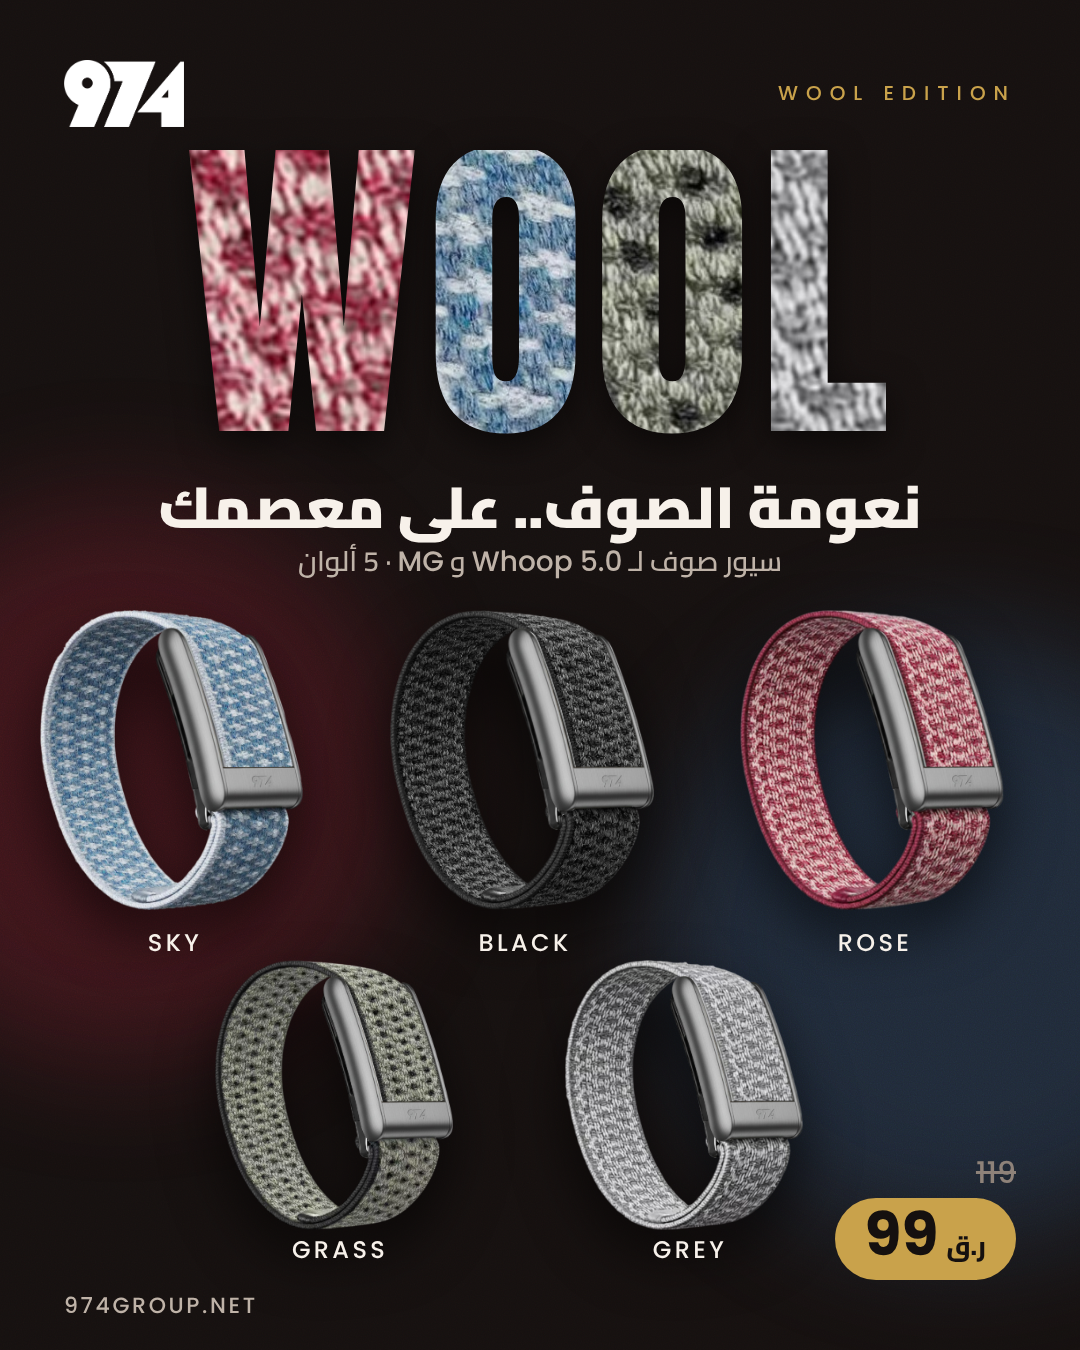
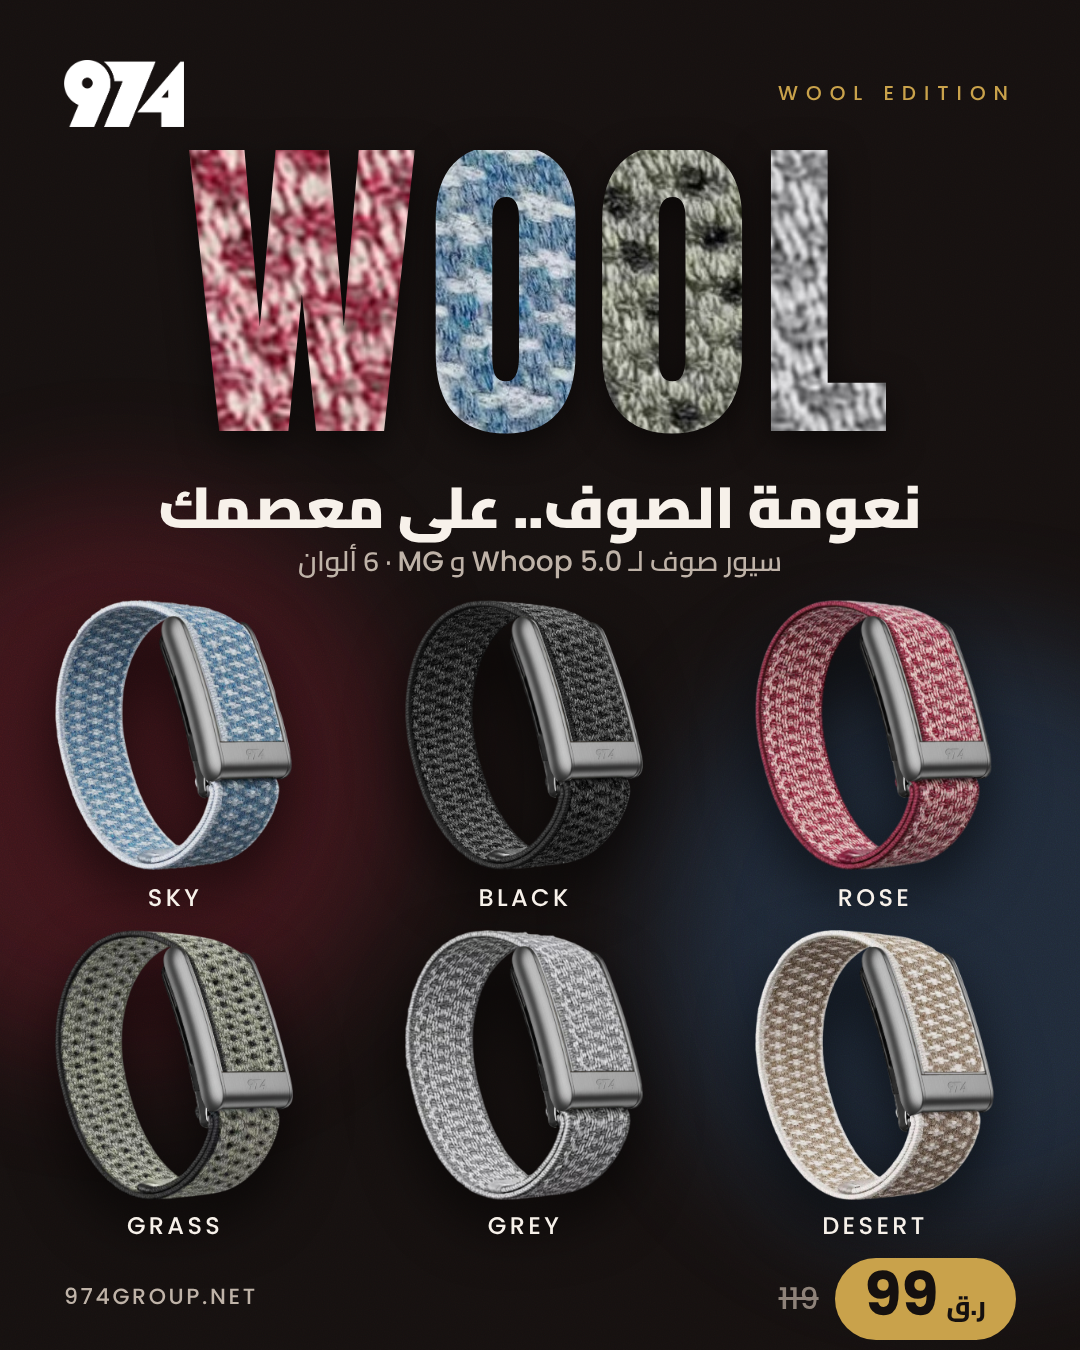
Wool: add Desert (6 colours)
Claude-Session: https://claude.ai/code/session_01K6HDWNrArsGSJekW1VcEzV

Changed region(s): [[0.0306, 0.4356, 0.9472, 0.9956], [0.2139, 0.9333, 0.2444, 0.9644]]

diff --git a/posts/2026-11/wool/src/d.html b/posts/2026-11/wool/src/d.html
@@ -39,19 +39,21 @@ body{background:#777;display:flex;gap:40px;padding:40px;align-items:flex-start;w
   <div class="kick en" style="right:64px;top:78px">WOOL EDITION</div>
   <div class="wool" style="top:150px;font-size:330px"><span style="background-image:url(tex_rose.jpg)">W</span><span style="background-image:url(tex_sky.jpg)">O</span><span style="background-image:url(tex_grass.jpg)">O</span><span style="background-image:url(tex_grey.jpg)">L</span></div>
   <div class="h ar" style="top:452px;font-size:58px">نعومة الصوف.. على معصمك</div>
-  <div class="s ar" style="top:535px;font-size:28px">سيور صوف لـ <span class="en">Whoop 5.0</span> و <span class="en">MG</span> · 5 ألوان</div>
-  <img class="band" src="sky_c.png"   style="left:40px;top:610px;height:300px">
-  <img class="band" src="black_c.png" style="left:390px;top:610px;height:300px">
-  <img class="band" src="rose_c.png"  style="left:740px;top:610px;height:300px">
-  <img class="band" src="grass_c.png" style="left:215px;top:960px;height:270px">
-  <img class="band" src="grey_c.png"  style="left:565px;top:960px;height:270px">
-  <div class="nm en" style="left:175px;top:925px">SKY</div>
-  <div class="nm en" style="left:525px;top:925px">BLACK</div>
-  <div class="nm en" style="left:875px;top:925px">ROSE</div>
-  <div class="nm en" style="left:340px;top:1232px">GRASS</div>
-  <div class="nm en" style="left:690px;top:1232px">GREY</div>
-  <div class="price" style="right:64px;top:1150px;flex-direction:column;align-items:flex-end;gap:2px"><s class="en">119</s><div class="b"><b class="en">99</b><span>ر.ق</span></div></div>
-  <div class="foot" style="bottom:28px"><span class="en">974GROUP.NET</span></div>
+  <div class="s ar" style="top:535px;font-size:28px">سيور صوف لـ <span class="en">Whoop 5.0</span> و <span class="en">MG</span> · 6 ألوان</div>
+  <img class="band" src="sky_c.png"   style="left:55px;top:600px;height:270px">
+  <img class="band" src="black_c.png" style="left:405px;top:600px;height:270px">
+  <img class="band" src="rose_c.png"  style="left:755px;top:600px;height:270px">
+  <img class="band" src="grass_c.png" style="left:55px;top:930px;height:270px">
+  <img class="band" src="grey_c.png"  style="left:405px;top:930px;height:270px">
+  <img class="band" src="desert_c.png" style="left:755px;top:930px;height:270px">
+  <div class="nm en" style="left:175px;top:880px">SKY</div>
+  <div class="nm en" style="left:525px;top:880px">BLACK</div>
+  <div class="nm en" style="left:875px;top:880px">ROSE</div>
+  <div class="nm en" style="left:175px;top:1208px">GRASS</div>
+  <div class="nm en" style="left:525px;top:1208px">GREY</div>
+  <div class="nm en" style="left:875px;top:1208px">DESERT</div>
+  <div class="price" style="right:64px;top:1258px"><s class="en">119</s><div class="b"><b class="en">99</b><span>ر.ق</span></div></div>
+  <div class="foot" style="top:1280px;right:auto"><span class="en">974GROUP.NET</span></div>
 </div>
 
 <!-- STORY -->
@@ -60,21 +62,23 @@ body{background:#777;display:flex;gap:40px;padding:40px;align-items:flex-start;w
   <div class="glow" style="right:-220px;top:1050px;width:720px;height:720px;background:rgba(70,130,200,.22)"></div>
   <svg class="grain" width="1080" height="1920"><rect width="100%" height="100%" filter="url(#g)"/></svg>
   <img class="logo" src="logo-white.png" style="left:64px;top:200px">
-  <div class="kick en" style="right:64px;top:218px">WOOL EDITION</div>
+  
   <div class="wool" style="top:300px;font-size:360px"><span style="background-image:url(tex_rose.jpg)">W</span><span style="background-image:url(tex_sky.jpg)">O</span><span style="background-image:url(tex_grass.jpg)">O</span><span style="background-image:url(tex_grey.jpg)">L</span></div>
   <div class="h ar" style="top:630px;font-size:64px">نعومة الصوف.. على معصمك</div>
-  <div class="s ar" style="top:722px;font-size:30px">سيور صوف لـ <span class="en">Whoop 5.0</span> و <span class="en">MG</span> · 5 ألوان</div>
-  <img class="band" src="sky_c.png"   style="left:60px;top:810px;height:330px">
-  <img class="band" src="rose_c.png"  style="left:660px;top:810px;height:330px">
-  <img class="band" src="black_c.png" style="left:360px;top:1010px;height:330px">
-  <img class="band" src="grass_c.png" style="left:60px;top:1240px;height:330px">
-  <img class="band" src="grey_c.png"  style="left:660px;top:1240px;height:330px">
-  <div class="nm en" style="left:210px;top:1150px">SKY</div>
-  <div class="nm en" style="left:810px;top:1150px">ROSE</div>
-  <div class="nm en" style="left:510px;top:1352px">BLACK</div>
-  <div class="nm en" style="left:210px;top:1580px">GRASS</div>
-  <div class="nm en" style="left:810px;top:1580px">GREY</div>
-  <div class="price" style="left:0;right:0;top:1660px;justify-content:center"><s class="en">119</s><div class="b"><b class="en">99</b><span>ر.ق</span></div></div>
-  <div class="foot" style="top:1780px;justify-content:center"><span class="en">974GROUP.NET</span></div>
+  <div class="s ar" style="top:722px;font-size:30px">سيور صوف لـ <span class="en">Whoop 5.0</span> و <span class="en">MG</span> · 6 ألوان</div>
+  <img class="band" src="sky_c.png"   style="left:110px;top:800px;height:280px">
+  <img class="band" src="rose_c.png"  style="left:620px;top:800px;height:280px">
+  <img class="band" src="black_c.png" style="left:110px;top:1130px;height:280px">
+  <img class="band" src="desert_c.png" style="left:620px;top:1130px;height:280px">
+  <img class="band" src="grass_c.png" style="left:110px;top:1460px;height:280px">
+  <img class="band" src="grey_c.png"  style="left:620px;top:1460px;height:280px">
+  <div class="nm en" style="left:240px;top:1086px">SKY</div>
+  <div class="nm en" style="left:750px;top:1086px">ROSE</div>
+  <div class="nm en" style="left:240px;top:1416px">BLACK</div>
+  <div class="nm en" style="left:750px;top:1416px">DESERT</div>
+  <div class="nm en" style="left:240px;top:1746px">GRASS</div>
+  <div class="nm en" style="left:750px;top:1746px">GREY</div>
+  <div class="price" style="right:64px;top:200px;transform:scale(.8);transform-origin:right top"><s class="en">119</s><div class="b"><b class="en">99</b><span>ر.ق</span></div></div>
+  <div class="foot" style="top:1800px;justify-content:center"><span class="en">974GROUP.NET</span></div>
 </div>
 </body></html>
